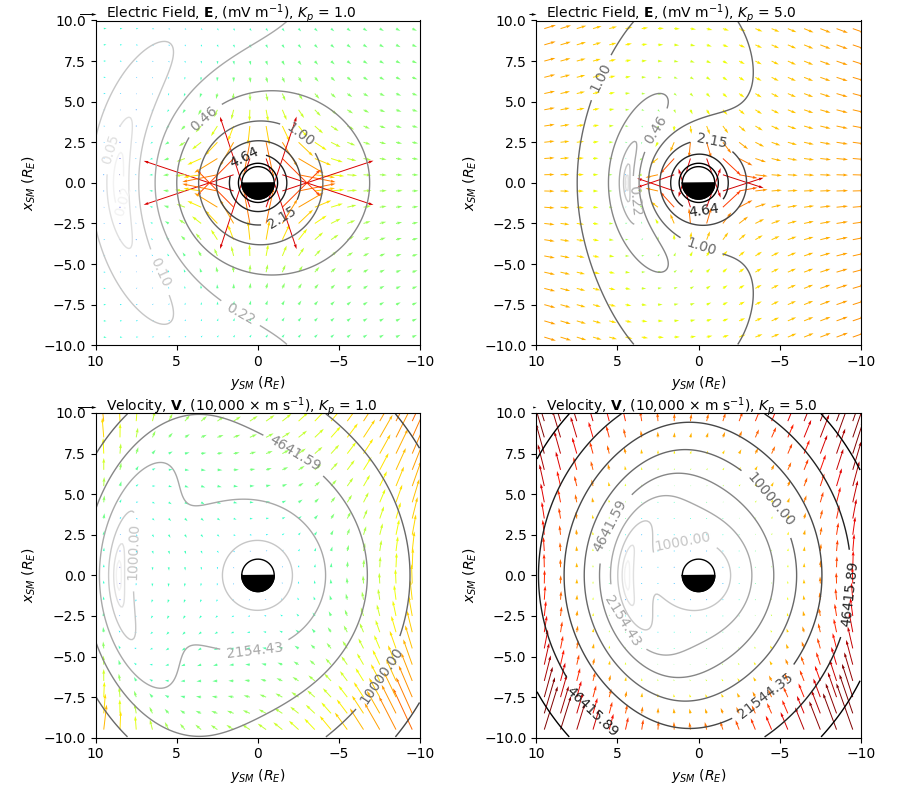
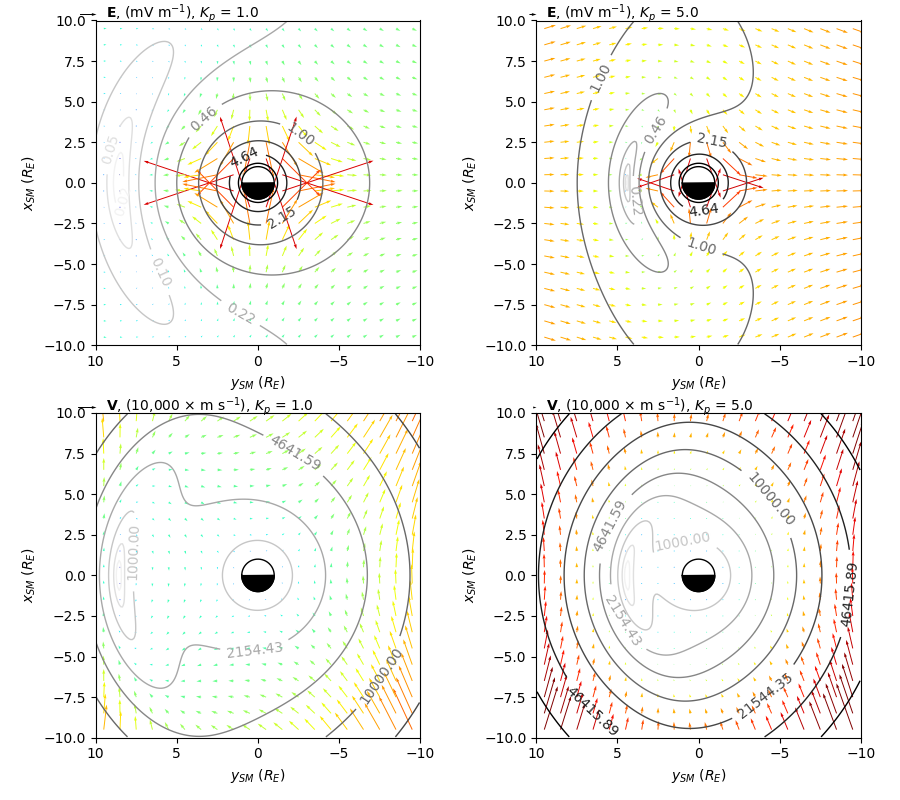
updated the readme with new plots

diff --git a/vsmodel/PlotVectorEq.py b/vsmodel/PlotVectorEq.py
@@ -7,8 +7,8 @@ from .ModelE import ModelECart
 from .VExBModel import VExBModel
 
 
-zlabs = {	'E':	r'Electric Field, $\mathbf{E}$, (mV m$^{-1}$)',
-			'V':	r'Velocity, $\mathbf{V}$, (10,000 $\times$ m s$^{-1}$)',
+zlabs = {	'E':	r'$\mathbf{E}$, (mV m$^{-1}$)',
+			'V':	r'$\mathbf{V}$, (10,000 $\times$ m s$^{-1}$)',
 			}
 
 
@@ -124,8 +124,17 @@ def PlotVectorEq(Model='V',Rmax=10.0,dR=1.0,Kp=1.0,Esw=None,Vsw=None,Bz=None,fig
 		qkl = 10000.0
 	else:
 		qkl = 1
+		
+	#create the label
+	qklab = zlabel
+	if Esw is None and (not (Vsw is None or Bz is None)):
+		Esw = -Vsw*1e6*Bz*1e-9
+	if (not Esw is None):
+		qklab += ', $K_p$ = {:3.1f}'.format(Kp) + '; $E_{sw}$ = ' + '{:3.1f}'.format(Esw) + ' mV m$^{-1}$'
+	else:
+		qklab += ', $K_p$ = {:3.1f}'.format(Kp)
 	Q = ax.quiver(yc,xc,my,mx,m,cmap='jet',norm=norm)
-	qk = ax.quiverkey(Q, 0.0, 1.02, qkl, zlabel + ', $K_p$ = {:3.1f}'.format(Kp), labelpos='E',
+	qk = ax.quiverkey(Q, 0.0, 1.02, qkl, qklab, labelpos='E',
 					   coordinates='axes')
 	if ShowContour:
 		#get a dense version of the model grid

diff --git a/README.md b/README.md
@@ -73,6 +73,8 @@ The function `vsmodel.PlotModelEq` will plot the V-S model potential, electric f
 ```python
 import vsmodel
 import matplotlib.pyplot as plt
+
+#The simple model
 plt.figure(figsize=(9,8))
 ax0 = vsmodel.PlotModelEq('E',Kp=1.0,maps=[2,2,0,0],fig=plt,fmt='%4.2f',scale=[0.01,10.0])
 ax1 = vsmodel.PlotModelEq('E',Kp=5.0,maps=[2,2,1,0],fig=plt,fmt='%4.2f',scale=[0.01,10.0])
@@ -83,28 +85,58 @@ ax2.set_title('$K_p=1$')
 ax3.set_title('$K_p=5$')
 ax1.set_title('$K_p=5$')
 plt.tight_layout()
+
+#The Goldstein model
+plt.figure(figsize=(9,8))
+ax0 = vsmodel.PlotModelEq('E',Kp=1.0,Vsw=-400.0,Bz=-2.5,maps=[2,2,0,0],fig=plt,fmt='%4.2f',scale=[0.01,10.0])
+ax1 = vsmodel.PlotModelEq('E',Kp=5.0,Vsw=-400.0,Bz=-2.5,maps=[2,2,1,0],fig=plt,fmt='%4.2f',scale=[0.01,10.0])
+ax2 = vsmodel.PlotModelEq('V',Kp=1.0,Vsw=-400.0,Bz=-2.5,maps=[2,2,0,1],fig=plt,scale=[100.0,10000.0])
+ax3 = vsmodel.PlotModelEq('V',Kp=5.0,Vsw=-400.0,Bz=-2.5,maps=[2,2,1,1],fig=plt,scale=[100.0,10000.0])
+ax0.set_title('$K_p=1$; $E_{sw}=-1$ mV m$^{-1}$')
+ax2.set_title('$K_p=1$; $E_{sw}=-1$ mV m$^{-1}$')
+ax3.set_title('$K_p=5$; $E_{sw}=-1$ mV m$^{-1}$')
+ax1.set_title('$K_p=5$; $E_{sw}=-1$ mV m$^{-1}$')
+plt.tight_layout()
 ```
 
 Which should produce this:
 
 ![vsexample.png](vsexample.png)
 
+and
+
+![vsexampleG](vsexampleG.png)
+
 Alternatively, we can plot the model vectors as a field of arrows:
 
 ```python
 import vsmodel
 import matplotlib.pyplot as plt
+
+#The simple model
 plt.figure(figsize=(9,8))
 ax0 = vsmodel.PlotVectorEq('E',Kp=1.0,maps=[2,2,0,0],fig=plt,fmt='%4.2f',scale=[0.01,10.0])
 ax1 = vsmodel.PlotVectorEq('E',Kp=5.0,maps=[2,2,1,0],fig=plt,fmt='%4.2f',scale=[0.01,10.0])
 ax2 = vsmodel.PlotVectorEq('V',Kp=1.0,maps=[2,2,0,1],fig=plt,scale=[100.0,100000.0])
 ax3 = vsmodel.PlotVectorEq('V',Kp=5.0,maps=[2,2,1,1],fig=plt,scale=[100.0,100000.0])
 plt.tight_layout()
+
+#The Goldstein model
+plt.figure(figsize=(9,8))
+ax0 = vsmodel.PlotVectorEq('E',Kp=1.0,Vsw=-400.0,Bz=-2.5,maps=[2,2,0,0],fig=plt,fmt='%4.2f',scale=[0.01,10.0])
+ax1 = vsmodel.PlotVectorEq('E',Kp=5.0,Vsw=-400.0,Bz=-2.5,maps=[2,2,1,0],fig=plt,fmt='%4.2f',scale=[0.01,10.0])
+ax2 = vsmodel.PlotVectorEq('V',Kp=1.0,Vsw=-400.0,Bz=-2.5,maps=[2,2,0,1],fig=plt,scale=[100.0,100000.0])
+ax3 = vsmodel.PlotVectorEq('V',Kp=5.0,Vsw=-400.0,Bz=-2.5,maps=[2,2,1,1],fig=plt,scale=[100.0,100000.0])
+plt.tight_layout()
 ```
 
 which produces:
 
 ![vsvector.png](vsvector.png)
+
+and
+
+![vsvectorG.png](vsvectorG.png)
 
 ### Notes on the coordinate systems
 
@@ -114,9 +146,9 @@ The Solar Magnetic (SM) coordinate system is defined such that the *z*-axis is a
 
 As this model is defined only in the equatorial plane, there is no input for the *z* coordinate; also there is not a *z* component to the model so `Ez` is filled with zeros.
 
-#### Polar
+#### Cylindrical
 
-The polar coordinates used are defined such that `r` is the radial distance from the centre of the planet, `theta` is the polar angle (angle from the positive *z*-axis) and `phi` is the azimuthal angle. `theta` is not used as an input, it is assumed that `theta=`&pi; in the model. The outputs `Er`, `Et` and `Ep` correspond to the radial, polar and azimuthal components of the model electric field. As with the Cartesian version of the model, there is no vertical component to the electric field model, so the `Et` component is filled with zeros.
+The cylindrical coordinates used are defined such that `r` is the radial distance from the *z*-axis and `phi` is the azimuthal angle. `z` is not used as an input because the model is confined to the equatorial plane. The outputs `Er`, `Ep` and `Ez` correspond to the radial, azimuthal and vertical (*z*) components of the model electric field. As with the Cartesian version of the model, there is no vertical component to the electric field model, so the `Ez` component is filled with zeros.
 
 ## Derivation
 
